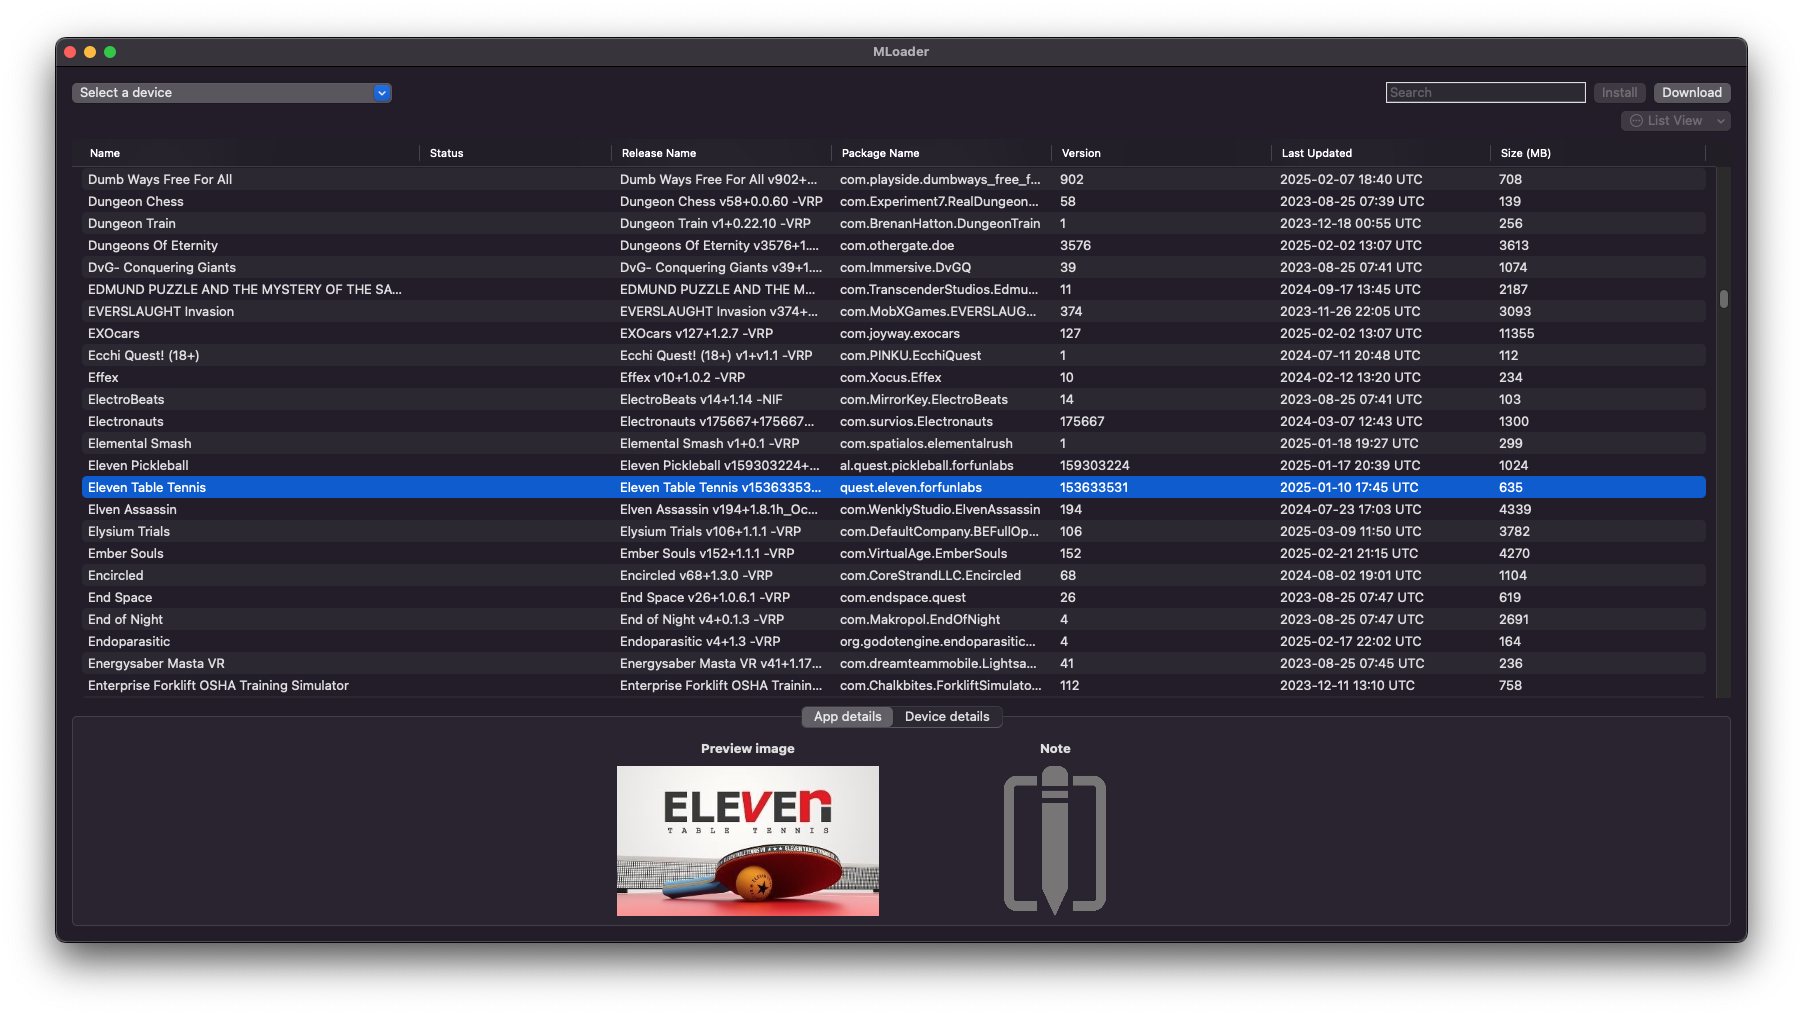
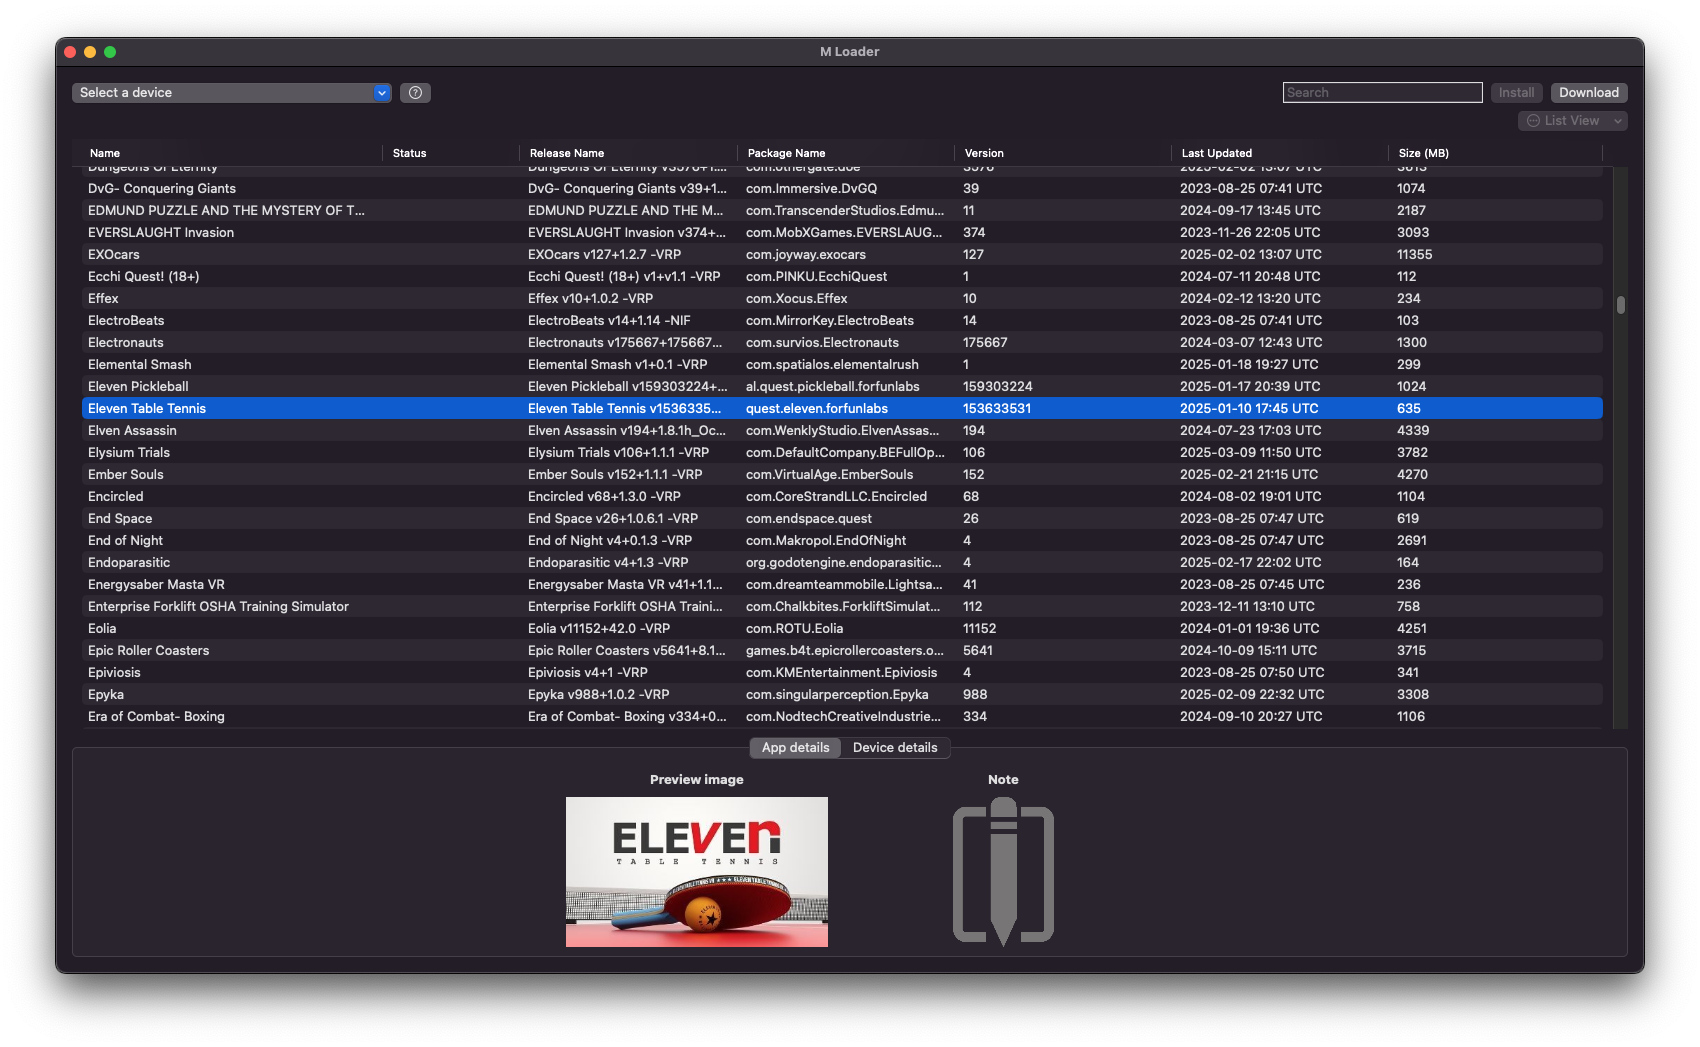
added faq window on macOS, updated macOS application to fully exit when close button is pressed, updated macOS preview screenshot

Changed region(s): [[0.0312, 0.0305, 0.9976, 0.9459]]

diff --git a/macOS/MLoader/Views/FAQDialogView.swift b/macOS/MLoader/Views/FAQDialogView.swift
@@ -1,0 +1,93 @@
+// Copyright (c) 2025 mlogic1
+//
+// This program is free software: you can redistribute it and/or modify
+// it under the terms of the GNU General Public License as published by
+// the Free Software Foundation, either version 3 of the License, or
+// (at your option) any later version.
+//
+// This program is distributed in the hope that it will be useful,
+// but WITHOUT ANY WARRANTY; without even the implied warranty of
+// MERCHANTABILITY or FITNESS FOR A PARTICULAR PURPOSE. See the
+// GNU General Public License for more details.
+//
+// You should have received a copy of the GNU General Public License
+// along with this program. If not, see <https://www.gnu.org/licenses/>.
+
+
+import SwiftUI
+
+struct FAQDialogView: View {
+	@Environment(\.presentationMode) var presentationMode
+	
+	private let faqItems: [FAQItem] = [
+		FAQItem(question: "1. My headset is connected to the computer but I don't see it on the list of devices", answer: "• Your headset needs to have developer mode enabled.\n• You need to Allow USB debugging after you connect your headset\n• You need to Allow access to files in the notifications menu after you connect your headset"),
+		FAQItem(question: "2. My headset is on the list but its status is 'Unauthorized'", answer: "You need to Allow USB debugging after you connect your headset"),
+		FAQItem(question: "3. How do I enable developer mode?", answer: "Please see this guide: https://wiki.vrpirates.club/en/Howto/enabling-dev-mode on how to enable developer mode"),
+		FAQItem(question: "4. How do I allow USB debugging?", answer: "When you plug in your headset to your computer, the headset will show a popup asking you if you 'Allow USB debugging?'. Click 'Allow' or 'Always allow from this computer'. If you missed it, simply reconnect your headset and it will pop-up again"),
+		FAQItem(question: "5. How do I allow access to files?", answer: "When you plug in your headset to your computer, the headset will show a small popup saying 'USB Detected - Click on this notification to allow connected device to access files'. Simply click it. If you missed it it will also be in the Notifications menu.")
+	]
+	
+	var body: some View {
+		VStack{
+			Text("Frequently Asked Questions")
+						.font(.title)
+						.padding()
+			ScrollView {
+				VStack(alignment: .leading, spacing: 10) {
+					ForEach(faqItems) { item in
+						VStack(alignment: .leading) {
+							Text(item.question)
+								.font(.title2)
+							Text(item.detectedLinksAttributedString)
+								.font(.title3)
+								.foregroundColor(.secondary)
+						}
+						Divider()
+					}
+				}
+				.padding()
+			}
+			Button("Close") {
+				presentationMode.wrappedValue.dismiss()
+			}
+			.padding()
+		}
+		.frame(width: 700, height: 550)
+    }
+}
+
+struct FAQDialogView_Previews: PreviewProvider {
+    static var previews: some View {
+        FAQDialogView()
+    }
+}
+
+struct FAQItem: Identifiable {
+	let id = UUID()
+	let question: String
+	let answer: String
+	
+	var detectedLinksAttributedString: AttributedString {
+		var attributed = AttributedString(answer)
+		
+		// Detect URLs in the answer string
+		let urlDetector = try? NSDataDetector(types: NSTextCheckingResult.CheckingType.link.rawValue)
+		let nsRange = NSRange(answer.startIndex..<answer.endIndex, in: answer)
+
+		urlDetector?.enumerateMatches(in: answer, options: [], range: nsRange) { match, _, _ in
+			if let match = match, let url = match.url {
+				if let range = Range(match.range, in: answer) {
+					// Convert String range to AttributedString range
+					let attributedRange = attributed.range(of: String(answer[range]))
+					if let attributedRange = attributedRange {
+						attributed[attributedRange].link = url
+						attributed[attributedRange].foregroundColor = .blue
+					}
+				}
+			}
+		}
+
+		return attributed
+	}
+}
+

diff --git a/macOS/MLoader/MainWindow.swift b/macOS/MLoader/MainWindow.swift
@@ -22,6 +22,7 @@ import AppKit
 
 struct MainWindow: View {
 	@State private var searchFilter: String = ""
+	@State private var showFAQ: Bool = false
 	
 	private var filteredApps: [SVrpApp]
 	{
@@ -80,6 +81,12 @@ struct MainWindow: View {
 						}
 					}
 					.frame(width: 320.0)
+					Button(action: ShowFAQDialog){
+						Image(systemName: "questionmark.circle")
+					}
+					.sheet(isPresented: $showFAQ){
+						FAQDialogView()
+					}
 					Spacer(minLength: 100.0)
 					TextField("Search", text: $searchFilter)
 						.disableAutocorrection(true)
@@ -143,8 +150,14 @@ struct MainWindow: View {
 					.padding(.horizontal, 20)
 			}
 			.onAppear{
-				// TODO: it's still crashing on create_directories
 				coordinator.MLoaderInitialize()
+			}
+			.alert("MLoader failed to start", isPresented: $coordinator.mLoaderInitializationFailed){
+				Button("Ok", role: .cancel) {
+					NSApplication.shared.terminate(nil)
+				}
+			} message: {
+				Text(coordinator.GetMLoaderLastErrorMessage())
 			}
 		}
 	}
@@ -157,9 +170,9 @@ struct MainWindow: View {
 		}
 	}
 	
-	private func UpdateNote()
+	private func ShowFAQDialog()
 	{
-		
+		showFAQ = true
 	}
 	
 	func OnApplicationExit()

diff --git a/macOS/MLoader/Coordinators/MainWindowCoordinator.swift b/macOS/MLoader/Coordinators/MainWindowCoordinator.swift
@@ -24,6 +24,10 @@ class MainWindowCoordinator: ObservableObject{
 	@Published var initStatus = ""
 	@Published var mLoaderInitialized : Bool = false
 	
+	// in case of failed initialization
+	@Published var mLoaderInitializationFailed : Bool = false
+	
+	
 	// Use mLoaderAppContextPtr to interact with the library
 	private var mLoaderAppContextPtr: OpaquePointer?
 	
@@ -134,9 +138,16 @@ class MainWindowCoordinator: ObservableObject{
 		RefreshDeviceList()
 	}
 	
+	func GetMLoaderLastErrorMessage() -> String
+	{
+		let cStrReason = MLoaderGetErrorMessage()
+		let mLoaderInitializationFailedReason = Utility_StringFromCString(cStrReason)
+		return mLoaderInitializationFailedReason
+	}
+	
 	private func OnMloaderInitFailed()
 	{
-		// TODO: display a window why and close the application
+		mLoaderInitializationFailed = true
 	}
 	
 	private func LoadImageFromDisk(imageFile: String) -> NSImage? {

diff --git a/macOS/MLoader/MLoaderApp.swift b/macOS/MLoader/MLoaderApp.swift
@@ -17,6 +17,8 @@ import SwiftUI
 
 @main
 struct MLoaderApp: App {
+	@NSApplicationDelegateAdaptor(AppDelegate.self) var appDelegate
+	
     var body: some Scene {
 		WindowGroup{
 			MainWindow()
@@ -37,10 +39,13 @@ struct MLoaderApp: App {
 			CommandGroup(replacing: .saveItem) { }
 			CommandGroup(replacing: .sidebar) { }
 			CommandGroup(replacing: .textEditing) { }
-			
-			CommandGroup(replacing: .help){
-				Button("About") {} // this can probably be replaced by using the default About button
-			}
 		}
+	}
+}
+
+class AppDelegate: NSObject, NSApplicationDelegate {
+	func applicationShouldTerminateAfterLastWindowClosed(_ sender: NSApplication) -> Bool {
+		// Return true so the app terminates after the last window is closed
+		return true
 	}
 }

diff --git a/libmloader/src/AppContext.cpp b/libmloader/src/AppContext.cpp
@@ -75,7 +75,7 @@ static std::string DetermineDownloadDir()
 
 static const char* err_msg;
 
-static const char* GetErrorMessage()
+const char* MLoaderGetErrorMessage()
 {
 	return err_msg;
 }

diff --git a/libmloader/include/mloader/AppContext.h b/libmloader/include/mloader/AppContext.h
@@ -52,6 +52,7 @@ extern "C"
 
 	char* GetAppThumbImage(AppContext* context, VrpApp* app);
 
+	const char* MLoaderGetErrorMessage();
 	char* MLoaderGetLibraryVersion();
 #ifdef __cplusplus
 }
